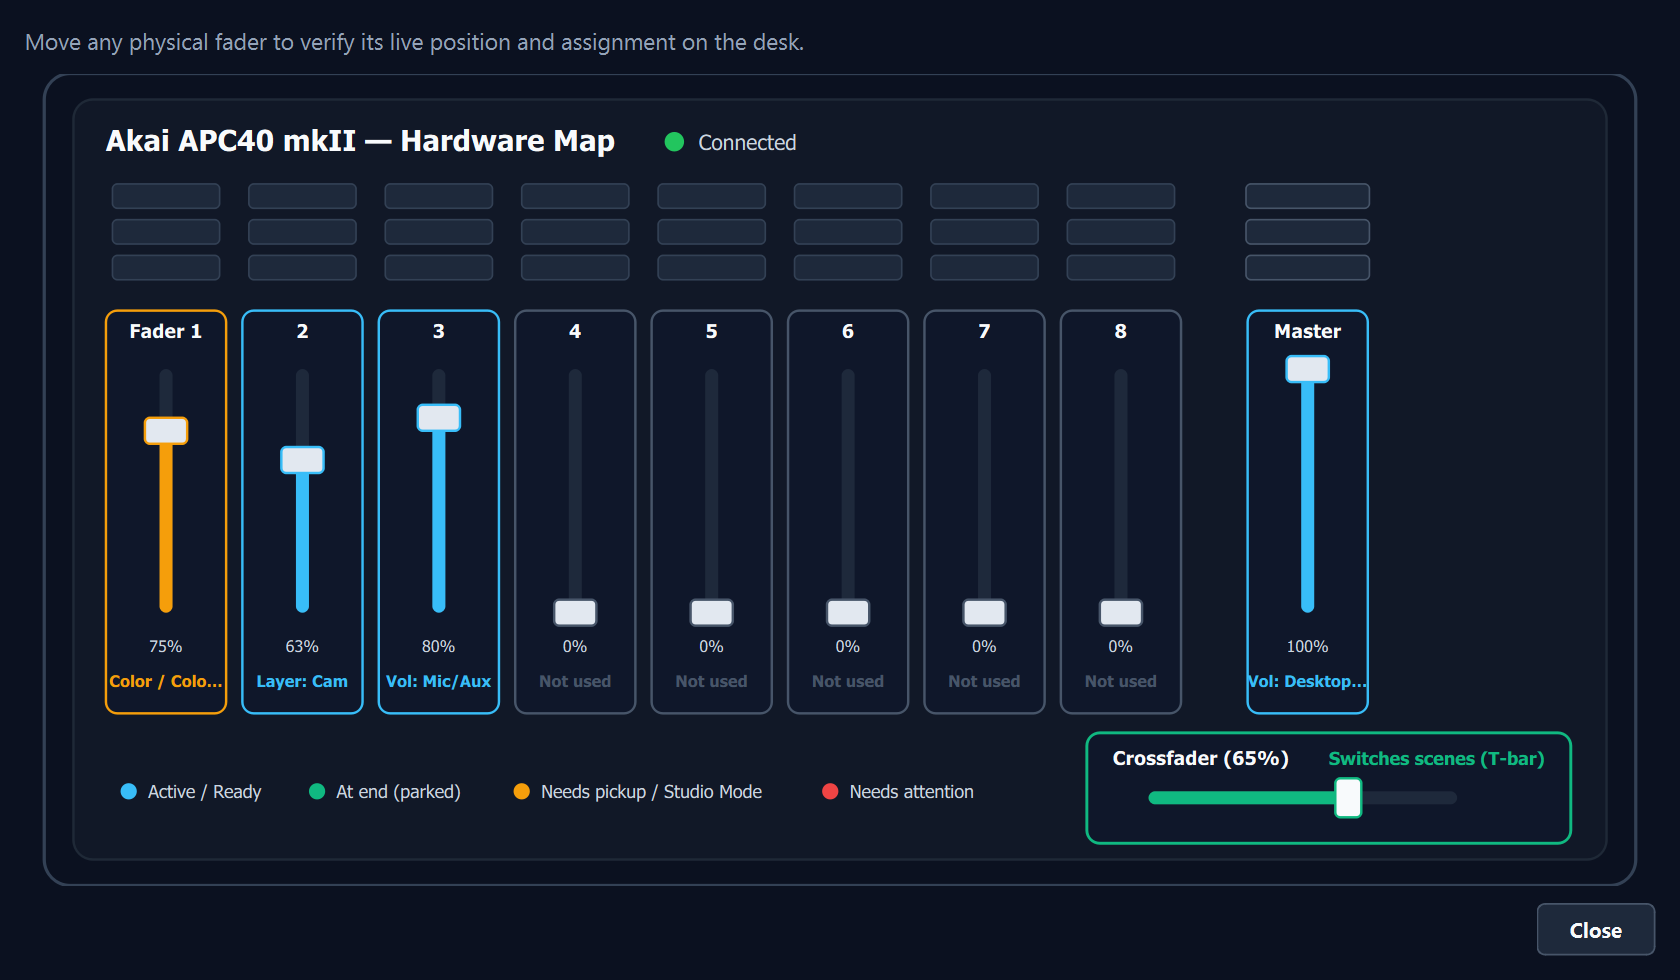
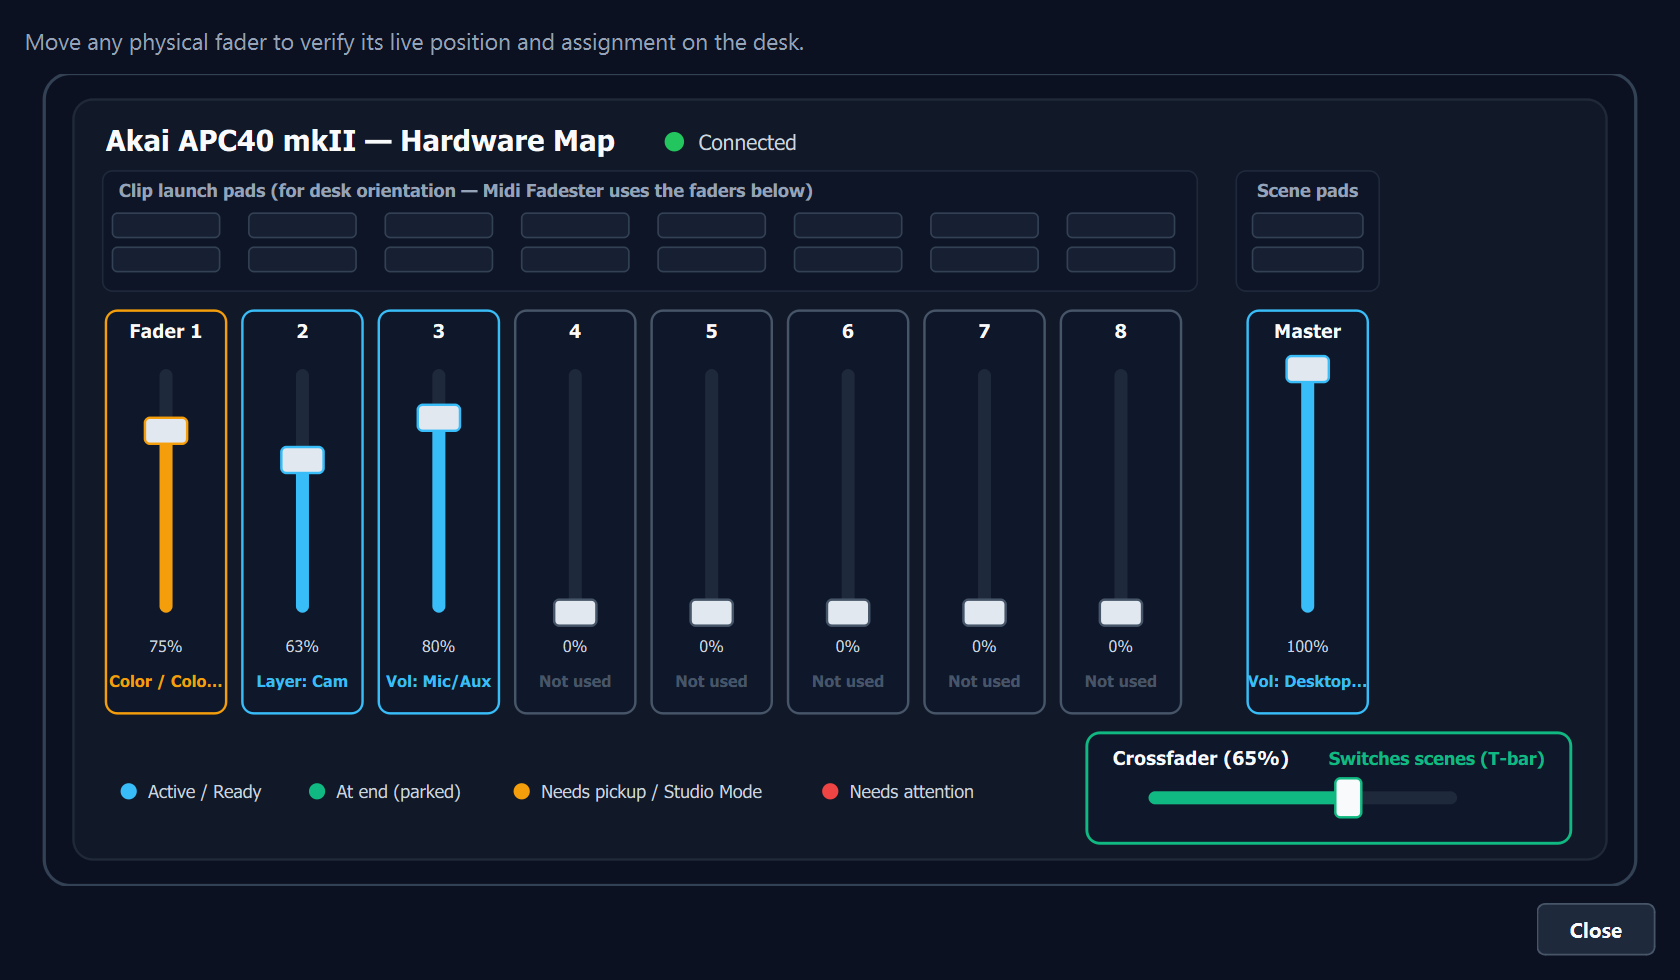
Release 0.2.2: label hardware-map pad zones and improve Advanced help readability

Changed region(s): [[0.0619, 0.1837, 0.619, 0.3061], [0.7429, 0.1837, 0.8357, 0.2755], [0.65, 0.1837, 0.7119, 0.2755]]

diff --git a/src/ui/mfd-controller-svg.cpp b/src/ui/mfd-controller-svg.cpp
@@ -130,22 +130,28 @@ QByteArray mfd_make_apc40_desk_svg(const struct mfd_ui_snapshot &snap)
 				  "font-size='13'>%2</text>")
 			   .arg(dot_hex, xml_escape(QString::fromUtf8(ctrl.status_sentence))));
 
-	/* Decorative 8x4 clip launch grid silhouette for instant physical desk orientation */
+	/* Labeled clip-launch & scene-launch pad zones for instant physical desk orientation */
+	svg.append(QStringLiteral(
+		"<rect x='36' y='60' width='674' height='74' rx='6' fill='#0d1526' stroke='#1e293b' stroke-width='1'/>"
+		"<text x='46' y='76' fill='#94a3b8' font-family='Segoe UI, sans-serif' font-size='11.5' "
+		"font-weight='bold'>Clip launch pads (for desk orientation \xE2\x80\x94 Midi Fadester uses the faders below)</text>"
+		"<rect x='734' y='60' width='88' height='74' rx='6' fill='#0d1526' stroke='#1e293b' stroke-width='1'/>"
+		"<text x='778' y='76' fill='#94a3b8' font-family='Segoe UI, sans-serif' font-size='11.5' "
+		"font-weight='bold' text-anchor='middle'>Scene pads</text>"));
 	for (int col = 0; col < 8; ++col) {
 		const int gx = 42 + col * 84;
-		for (int row = 0; row < 3; ++row) {
-			const int gy = 68 + row * 22;
+		for (int row = 0; row < 2; ++row) {
+			const int gy = 86 + row * 21;
 			svg.append(QStringLiteral("<rect x='%1' y='%2' width='66' height='15' rx='3' "
-						  "fill='#1e293b' stroke='#334155' stroke-width='1'/>")
+						  "fill='#172033' stroke='#334155' stroke-width='1'/>")
 					   .arg(gx)
 					   .arg(gy));
 		}
 	}
-	/* Scene launch column silhouette above Master */
-	for (int row = 0; row < 3; ++row) {
-		const int gy = 68 + row * 22;
-		svg.append(QStringLiteral("<rect x='740' y='%1' width='76' height='15' rx='3' "
-					  "fill='#1e293b' stroke='#475569' stroke-width='1'/>")
+	for (int row = 0; row < 2; ++row) {
+		const int gy = 86 + row * 21;
+		svg.append(QStringLiteral("<rect x='744' y='%1' width='68' height='15' rx='3' "
+					  "fill='#172033' stroke='#334155' stroke-width='1'/>")
 				   .arg(gy));
 	}
 

diff --git a/src/ui/mfd-settings-dialog.cpp b/src/ui/mfd-settings-dialog.cpp
@@ -908,22 +908,28 @@ private:
 		table_->setHorizontalScrollBarPolicy(Qt::ScrollBarAsNeeded);
 		root->addWidget(table_, 1);
 
+		auto *hint = new QLabel(
+			QStringLiteral(
+				"<b style='color:#f8fafc;'>Switch scenes (T-bar):</b> Fades Preview &rarr; "
+				"Program from 0&ndash;100%. Reach the far end to finish, or return to the start "
+				"to cancel.<br>"
+				"<b style='color:#f8fafc;'>Mix two layers:</b> Crossfades Left and Right in one scene "
+				"(layer order is detected automatically)."),
+			adv_tab);
+		hint->setObjectName(QStringLiteral("mfdAdvHelpLabel"));
+		hint->setTextFormat(Qt::RichText);
+		hint->setWordWrap(true);
+		hint->setStyleSheet(QStringLiteral(
+			"QLabel#mfdAdvHelpLabel { background-color: #111827; color: #cbd5e1; font-size: 13px; "
+			"padding: 7px 12px; border: 1px solid #1e293b; border-radius: 5px; }"));
+		root->addWidget(hint);
+
 		auto *footer = new QHBoxLayout();
 		auto *btn_back_strips = new QPushButton(QStringLiteral("Back to Strips"), adv_tab);
 		btn_back_strips->setObjectName(QStringLiteral("mfdBtnBackToStrips"));
 		footer->addWidget(btn_back_strips);
 		connect(btn_back_strips, &QPushButton::clicked, this, [this]() { main_tabs_->setCurrentIndex(0); });
-
-		auto *hint = new QLabel(
-			QStringLiteral(
-				"Switch scenes (T-bar) drives Preview \xE2\x86\x92 Program linearly 0\xE2\x80\x93"
-				"100% and completes in the 3% target rail zone (returning to the 3% origin rail "
-				"cancels). Mix two layers fades Left and Right inside one scene with automatic "
-				"stack-order detection."),
-			adv_tab);
-		hint->setWordWrap(true);
-		hint->setStyleSheet(QStringLiteral("color: #94a3b8; font-size: 12px;"));
-		footer->addWidget(hint, 1);
+		footer->addStretch(1);
 
 		auto *btn_import = new QPushButton(QStringLiteral("Import..."), adv_tab);
 		btn_import->setObjectName(QStringLiteral("mfdBtnImport"));

diff --git a/tests/test-ui-dialog.cpp b/tests/test-ui-dialog.cpp
@@ -4,6 +4,7 @@
  * SPDX-License-Identifier: GPL-2.0-or-later
  */
 
+#include "ui/mfd-controller-svg.hpp"
 #include "ui/mfd-settings-dialog.hpp"
 #include "ui/mfd-svg-canvas.hpp"
 #include "obs/mfd-engine.h"
@@ -976,6 +977,13 @@ int main(int argc, char **argv)
 		static_cast<MfdSvgCanvas *>(must_find<QWidget>(svg_dlg, QStringLiteral("mfdControllerSvgCanvas")));
 	REQUIRE(svg_canvas != nullptr);
 	REQUIRE(svg_canvas->is_valid());
+	{
+		struct mfd_ui_snapshot svg_snap {};
+		mfd_engine_get_ui_snapshot(&eng, &svg_snap);
+		const QByteArray desk_xml = mfd_make_apc40_desk_svg(svg_snap);
+		REQUIRE(desk_xml.contains("Clip launch pads"));
+		REQUIRE(desk_xml.contains("Scene pads"));
+	}
 
 	capture_and_verify_png(svg_dlg, screenshot_dir, QStringLiteral("08-show-controller-svg.png"));
 	svg_dlg->close();
@@ -988,6 +996,10 @@ int main(int argc, char **argv)
 	REQUIRE(tabs->currentIndex() == 1);
 
 	auto *table = must_find<QTableWidget>(dlg.get(), QStringLiteral("mfdAdvancedTable"));
+	auto *adv_help = must_find<QLabel>(dlg.get(), QStringLiteral("mfdAdvHelpLabel"));
+	REQUIRE(!adv_help->isHidden());
+	REQUIRE(adv_help->text().contains(QStringLiteral("Switch scenes (T-bar):")));
+	REQUIRE(adv_help->text().contains(QStringLiteral("Mix two layers:")));
 	REQUIRE(table->horizontalHeaderItem(4)->text() == QStringLiteral("What it does"));
 	REQUIRE(table->horizontalHeaderItem(5)->text() == QStringLiteral("Left"));
 	REQUIRE(table->horizontalHeaderItem(6)->text() == QStringLiteral("Right"));

diff --git a/tests/test-vendor-api.c b/tests/test-vendor-api.c
@@ -658,7 +658,7 @@ int main(void)
 	res = obs_data_create();
 	mfd_vendor_handle_get_state(req, res, &eng);
 	REQUIRE(strcmp(obs_data_get_string(res, "version"), PLUGIN_VERSION) == 0);
-	REQUIRE(strcmp(obs_data_get_string(res, "version"), "0.2.1") == 0);
+	REQUIRE(strcmp(obs_data_get_string(res, "version"), "0.2.2") == 0);
 	obs_data_t *build_obj = obs_data_get_obj(res, "build");
 	REQUIRE(build_obj != NULL);
 	const char *b_commit = obs_data_get_string(build_obj, "commit");
